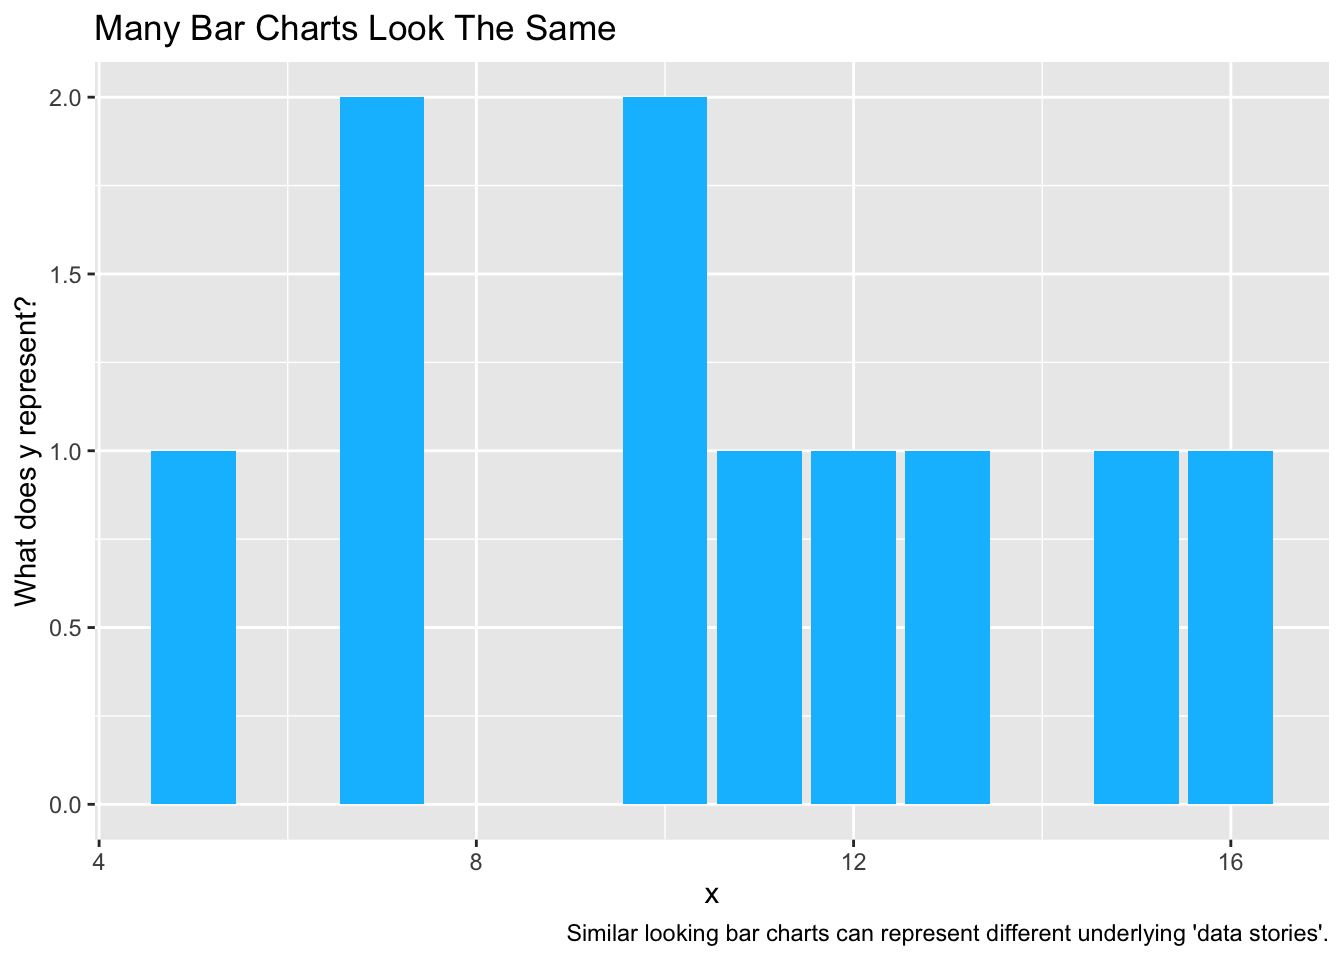
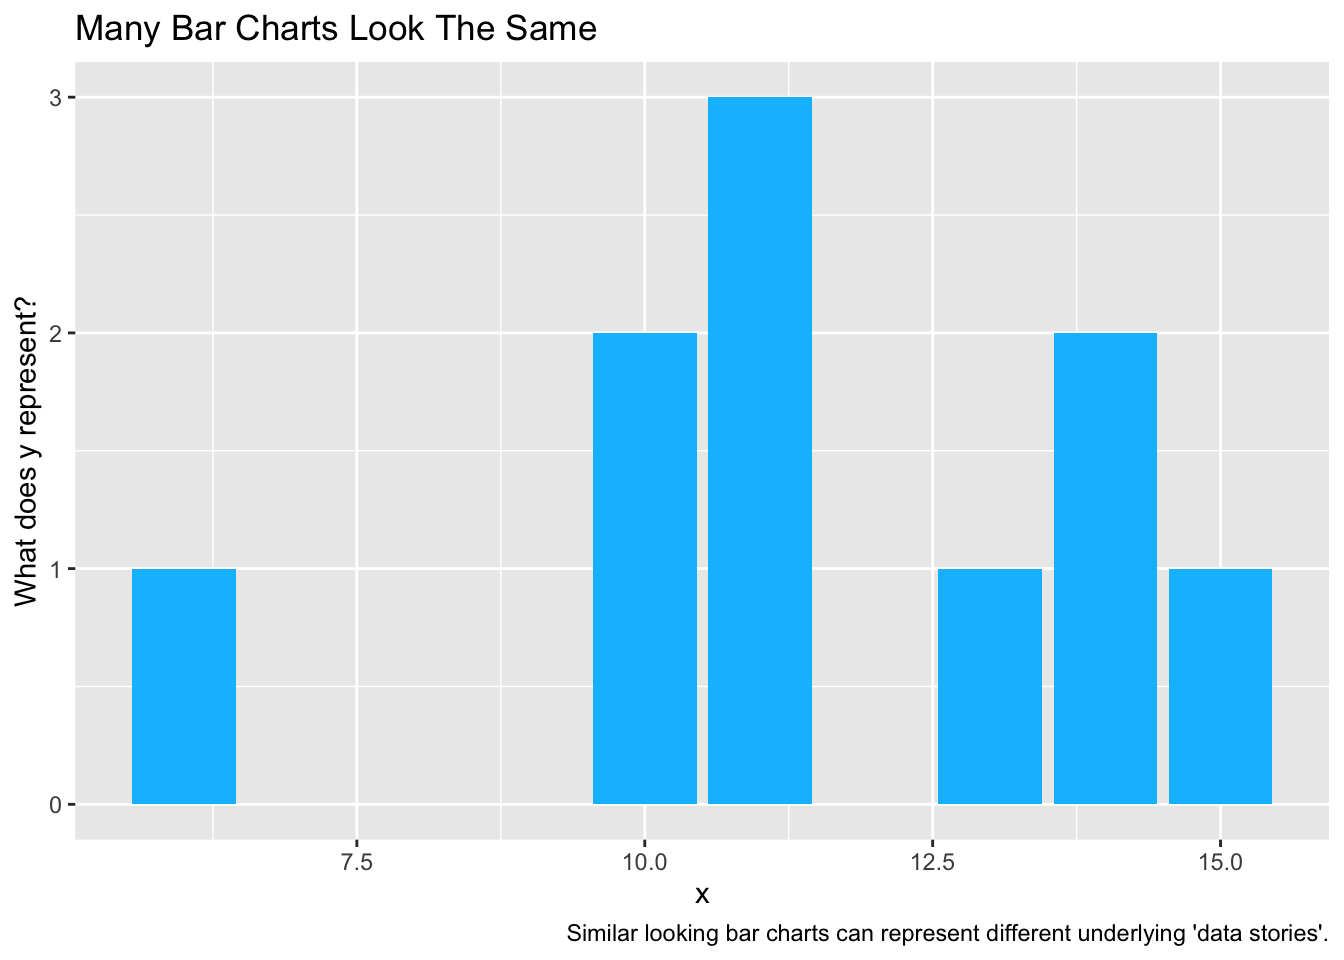
updates to code chunk comments and callouts

diff --git a/docs/posts/bar-charts-in-ggplot2/index.html b/docs/posts/bar-charts-in-ggplot2/index.html
@@ -518,9 +518,19 @@ pre > code.sourceCode > span > a:first-child::before { text-decoration: underlin
 </div>
 </div>
 </div>
-<blockquote class="blockquote">
+<div class="callout callout-style-default callout-note callout-titled">
+<div class="callout-header d-flex align-content-center">
+<div class="callout-icon-container">
+<i class="callout-icon"></i>
+</div>
+<div class="callout-title-container flex-fill">
+Note
+</div>
+</div>
+<div class="callout-body-container callout-body">
 <p>We then return to an unstacked bar chart to consider the syntax for adding labels.</p>
-</blockquote>
+</div>
+</div>
 </section>
 <section id="add-labels" class="level2">
 <h2 class="anchored" data-anchor-id="add-labels">Add Labels</h2>
@@ -572,9 +582,19 @@ pre > code.sourceCode > span > a:first-child::before { text-decoration: underlin
 </section>
 <section id="bar-charts-where-the-height-of-the-bars-is-the-average-value-of-the-y-variable-for-that-category." class="level1">
 <h1>Bar charts where the <span style="background-color: #FFFF00">height of the bars is the <strong>average value of the y variable</strong> for that category</span>.</h1>
-<blockquote class="blockquote">
+<div class="callout callout-style-default callout-note callout-titled">
+<div class="callout-header d-flex align-content-center">
+<div class="callout-icon-container">
+<i class="callout-icon"></i>
+</div>
+<div class="callout-title-container flex-fill">
+Note
+</div>
+</div>
+<div class="callout-body-container callout-body">
 <p>For this kind of bar chart, we need ask R to summarize the value of <code>y</code> for different categories of <code>x</code>. The syntax is–shall we say–not very intuitive, but does make sense.</p>
-</blockquote>
+</div>
+</div>
 <div class="cell">
 <details class="code-fold">
 <summary>Show the code</summary>
@@ -818,9 +838,19 @@ pre > code.sourceCode > span > a:first-child::before { text-decoration: underlin
 </div>
 </div>
 </div>
-<blockquote class="blockquote">
+<div class="callout callout-style-default callout-note callout-titled">
+<div class="callout-header d-flex align-content-center">
+<div class="callout-icon-container">
+<i class="callout-icon"></i>
+</div>
+<div class="callout-title-container flex-fill">
+Note
+</div>
+</div>
+<div class="callout-body-container callout-body">
 <p>Unfortunately, pie charts are deprecated in some circles, so support for pie charts is not very strong in <code>ggplot</code>. It is certainly possible to create a pie chart in <code>ggplot</code>, but adding labels to a pie chart ends up being very very difficult.</p>
-</blockquote>
+</div>
+</div>
 <section id="pie-chart-with-better-colors" class="level2">
 <h2 class="anchored" data-anchor-id="pie-chart-with-better-colors">Pie Chart With Better Colors</h2>
 <div class="cell">

diff --git a/docs/posts/multilevel-thinking/index.html b/docs/posts/multilevel-thinking/index.html
@@ -7,7 +7,7 @@
 <meta name="viewport" content="width=device-width, initial-scale=1.0, user-scalable=yes">
 
 <meta name="author" content="Andy Grogan-Kaylor">
-<meta name="dcterms.date" content="2026-07-06">
+<meta name="dcterms.date" content="2026-07-08">
 
 <title>Multilevel Thinking – Andrew Grogan-Kaylor</title>
 <style>
@@ -89,10 +89,10 @@ ul.task-list li input[type="checkbox"] {
 <meta name="twitter:card" content="summary_large_image">
 <meta name="citation_title" content="Multilevel Thinking">
 <meta name="citation_author" content="Andy Grogan-Kaylor">
-<meta name="citation_publication_date" content="2026-07-06">
-<meta name="citation_cover_date" content="2026-07-06">
+<meta name="citation_publication_date" content="2026-07-08">
+<meta name="citation_cover_date" content="2026-07-08">
 <meta name="citation_year" content="2026">
-<meta name="citation_online_date" content="2026-07-06">
+<meta name="citation_online_date" content="2026-07-08">
 <meta name="citation_language" content="en">
 <meta name="citation_reference" content="citation_title=We need methods suited to the complexity of the data and to the complexity of the issues we study;,citation_author=Andrew Grogan-Kaylor;,citation_author=Lijian Zhao;,citation_author=Nehal Eldeeb;,citation_author=Tania Ramos-García;,citation_author=Todd Herrenkohl;,citation_publication_date=2026;,citation_cover_date=2026;,citation_year=2026;,citation_doi=10.1016/j.chiabu.2026.108185;,citation_issn=0145-2134;,citation_volume=179;,citation_journal_title=Child Abuse &amp;amp;amp; Neglect;">
 <meta name="citation_reference" content="citation_title=Mary Oliver: “I got saved by the beauty of the world.”;,citation_author=Mary Oliver;,citation_author=Krista Tippett;,citation_publication_date=2015;,citation_cover_date=2015;,citation_year=2015;,citation_fulltext_html_url=https://onbeing.org/programs/mary-oliver-i-got-saved-by-the-beauty-of-the-world/;,citation_publisher=The On Being Project;">
@@ -323,7 +323,7 @@ ul.task-list li input[type="checkbox"] {
       <div>
       <div class="quarto-title-meta-heading">Published</div>
       <div class="quarto-title-meta-contents">
-        <p class="date">July 6, 2026</p>
+        <p class="date">July 8, 2026</p>
       </div>
     </div>
     

diff --git a/docs/blog.html b/docs/blog.html
@@ -399,7 +399,7 @@ window.Quarto = {
     </div>
 </div>
 <div class="list quarto-listing-default">
[2 lines of base64/hex data omitted]
 <div class="thumbnail"><a href="./posts/multilevel-thinking/index.html" class="no-external">
 
 <img loading="lazy" src="./posts/multilevel-thinking/multilevel-thinking.png" class="thumbnail-image">
@@ -436,7 +436,7 @@ I’d like to share that my book, <em>Multilevel Thinking: Discovering Variation
 <div class="metadata">
 <a href="./posts/multilevel-thinking/index.html" class="no-external">
 <div class="listing-date">
-Jul 6, 2026
+Jul 8, 2026
 </div>
 </a>
 </div>
@@ -3941,7 +3941,7 @@ Feb 7, 2024
 </a>
 </div>
 </div>
-<div class="quarto-post image-right" data-index="103" data-categories="c3RhdHMlMkNkYXRhdml6JTJDUg==" data-listing-date-sort="1706763600000" data-listing-file-modified-sort="1739749664541" data-listing-date-modified-sort="NaN" data-listing-reading-time-sort="12" data-listing-word-count-sort="2309">
+<div class="quarto-post image-right" data-index="103" data-categories="c3RhdHMlMkNkYXRhdml6JTJDUg==" data-listing-date-sort="1706763600000" data-listing-file-modified-sort="1783539532235" data-listing-date-modified-sort="NaN" data-listing-reading-time-sort="12" data-listing-word-count-sort="2311">
 <div class="thumbnail"><a href="./posts/bar-charts-in-ggplot2/index.html" class="no-external">
 
 <p class="card-img-top"><img loading='lazy' data-src="posts/bar-charts-in-ggplot2/index_files/figure-html/unnamed-chunk-1-1.png"  class="thumbnail-image card-img"/></p>